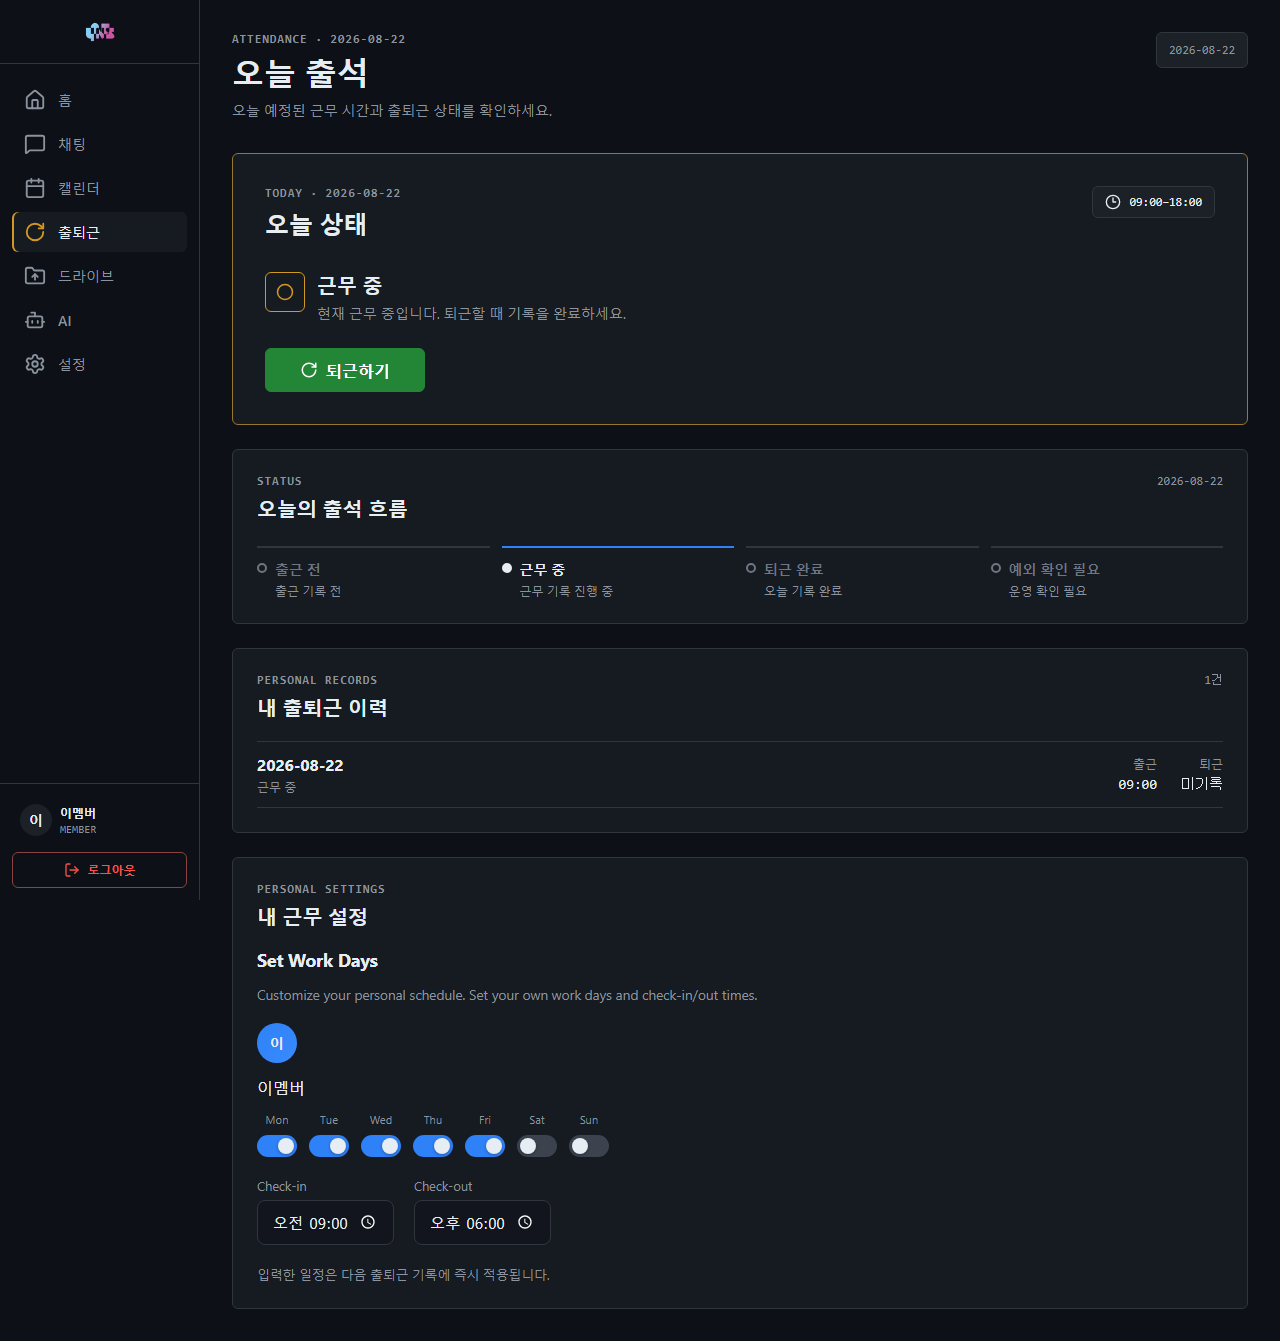
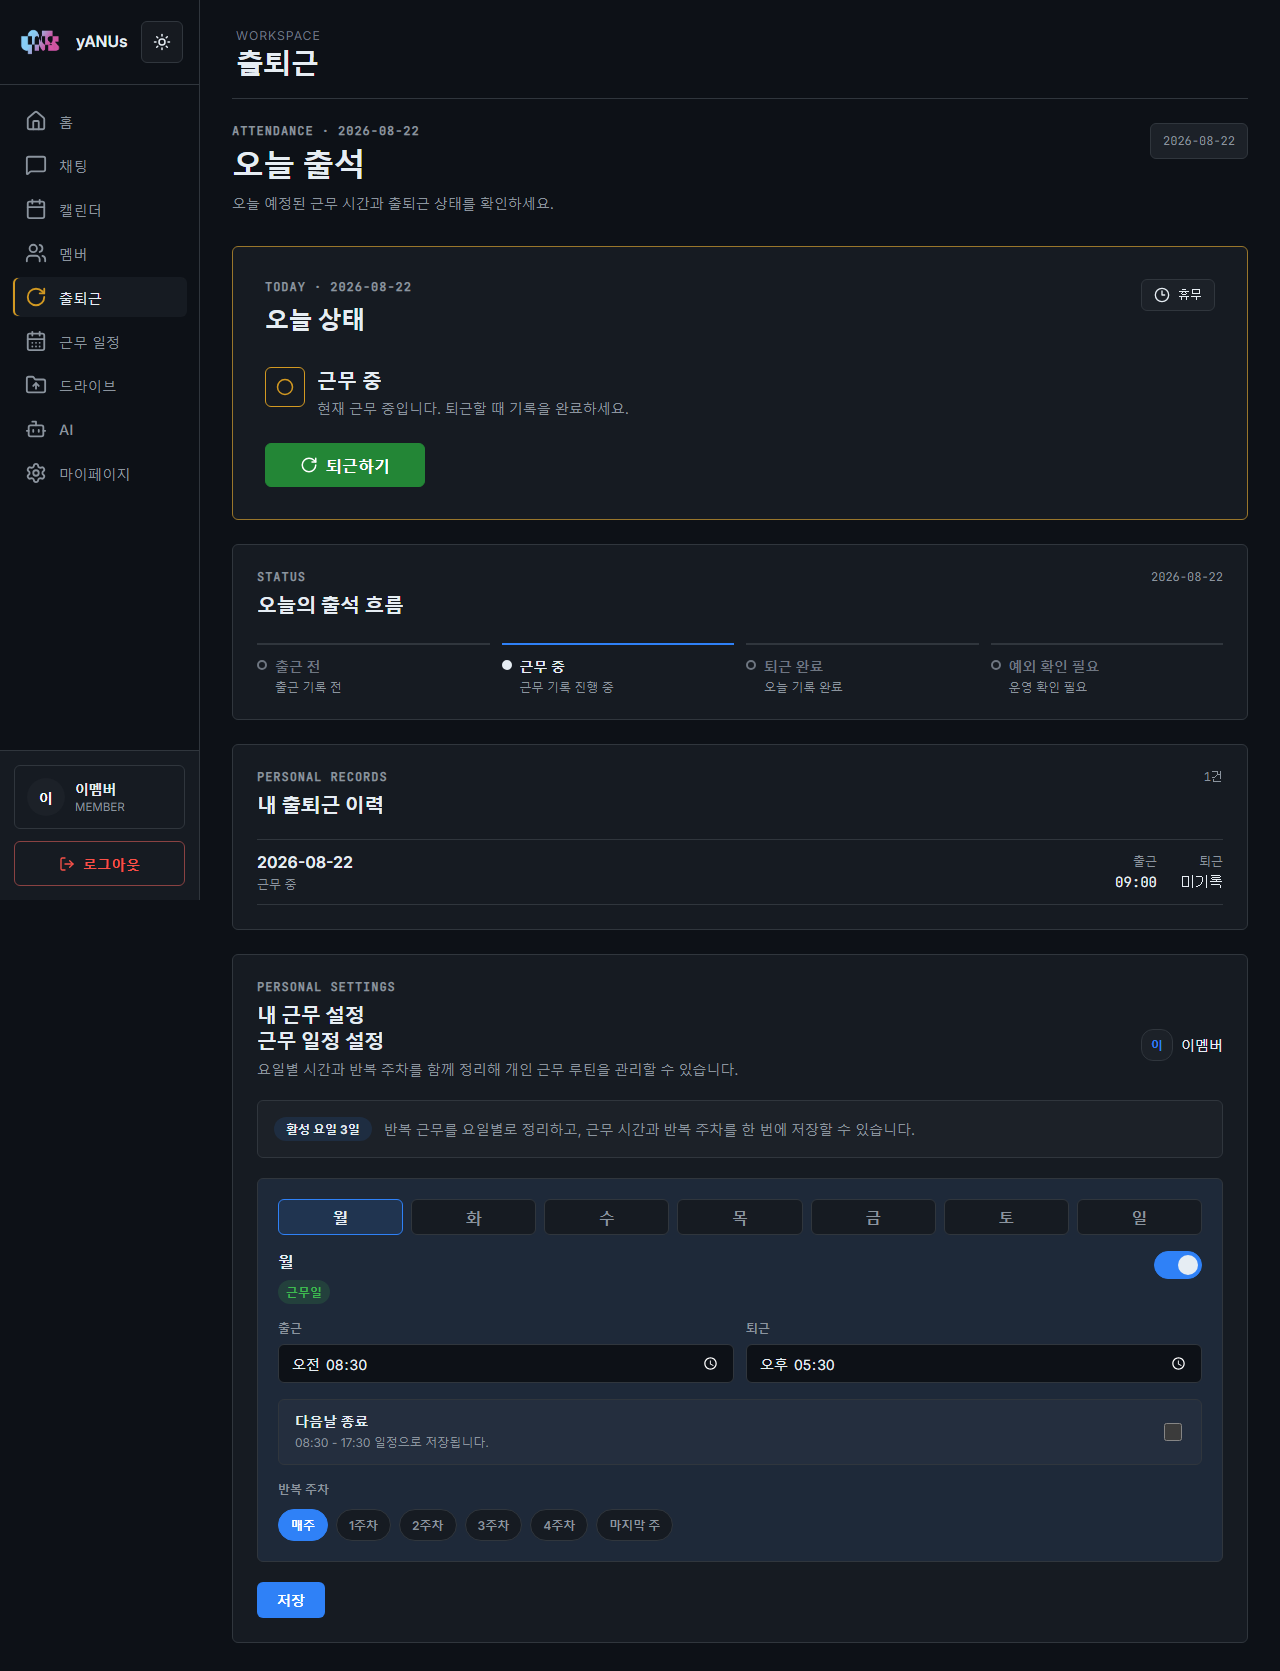
[Docs] #410 - 최종 Before After 증거 갱신

diff --git a/DESIGN.md b/DESIGN.md
@@ -99,10 +99,10 @@ Status is always represented by text, layout, and an icon or border treatment. C
 - Desktop target: `1280px` wide content with a fixed `200px` shell and `32px` page padding.
 - Narrow target: at `768px` and below, navigation becomes a fixed bottom bar and content receives bottom clearance. At `700px`/`480px`, operator rows and member timeline collapse without horizontal scrolling.
 - Touch targets are at least `36px`; the member clock CTA is at least `44px` high.
-- Dark mode uses the Octo Code layers in this document. A light-mode token set is provided through `prefers-color-scheme: light`; content structure and status wording remain unchanged.
+- Dark mode uses the Octo Code layers in this document. Light mode is opt-in through the existing explicit `data-theme="light"` preference; the operating-system color scheme does not override the dark default.
 - Every action is keyboard reachable, focus-visible, labelled, and has a text equivalent. Status timeline uses `aria-current`, record rows expose a member-specific accessible name, and the detail panel uses a labelled `aside`.
 - Loading, API error, retry, empty, and filtered-empty states occupy the same record region. Authentication and permission routing remain owned by the existing route guards.
-- Offline behavior is limited to visible failure and retry in this issue; no new cache or backend contract is introduced.
+- Offline behavior is limited to visible failure and retry in this issue. Attendance schedule/session cache entries are scoped by authenticated user and cleared on logout; the server remains the source of truth.
 
 ### Implementation boundary and next stages
 
@@ -112,7 +112,7 @@ Status is always represented by text, layout, and an icon or border treatment. C
 4. Extension slot: #377 adds settlement/report columns and CSV mapping to the operator record model.
 5. Extension slot: #378 adds audit history to the detail panel.
 
-Backend API contracts are not changed by this design pass. Existing attendance endpoints remain the data source.
+Existing attendance endpoints remain the data source. Operator reads may send date/team filters, and the server must enforce the authenticated role and team claims; the mock handlers mirror those authorization boundaries for local verification.
 
 ## Before / After evidence — #410
 
@@ -137,27 +137,30 @@ Before interaction findings:
 
 ### After
 
-After captures were generated on `2026-08-22` before the develop sync at implementation commit `802abc0`; the equivalent rebased commit is `a8cd407`. The captures use the same route, role, viewport, mock mode, and default scroll position as the Before set. A second browser pass checked bottom clearance at the maximum scroll position.
+After captures were regenerated on `2026-08-22` at implementation commit `cbcf7bd9bc306e23b73b841dd83fcb00fdbbe0cd`. The captures use the same route, role, viewport, mock mode, and default scroll position as the Before set. Full-page image heights record the rendered scroll height; a second browser pass checked bottom clearance at the maximum scroll position.
 
 | Capture | Role | Viewport | Objective evidence | File |
 | --- | --- | --- | --- | --- |
 | Admin desktop | ADMIN | `1280×900` | `scrollWidth=1280`; 3 current records rendered, with 2 `근무 중` records ordered before the completed record. | `.qa/issue-410/after/admin-1280.png` |
-| Admin narrow | ADMIN | `768×1024` | `scrollWidth=768`, `scrollHeight=1088`; summary and record/detail regions remain in one readable column. | `.qa/issue-410/after/admin-768.png` |
-| Admin mobile | ADMIN | `390×844` | `scrollWidth=390`, `scrollHeight=1203`; no horizontal overflow, 2×2 summary grid, compact record rows, and 50px clearance above the fixed navigation at max scroll. | `.qa/issue-410/after/admin-390.png` |
-| Member mobile | MEMBER | `390×844` | `scrollWidth=390`, `scrollHeight=1757`; today status, one `퇴근하기` CTA, timeline, records, and schedule settings stack without horizontal overflow; 32px clearance above the fixed navigation at max scroll. | `.qa/issue-410/after/member-390.png` |
-| Member desktop | MEMBER | `1280×900` | `scrollWidth=1280`; today status and `09:00–18:00` schedule are first, followed by the text timeline, personal record, and settings sections. | `.qa/issue-410/after/member-1280.png` |
+| Admin narrow | ADMIN | `768×1024` | `scrollWidth=768`, full-page `scrollHeight=1027`; summary and record/detail regions remain in one readable column, with 44px clearance above fixed navigation at max scroll. | `.qa/issue-410/after/admin-768.png` |
+| Admin mobile | ADMIN | `390×844` | `scrollWidth=390`, full-page `scrollHeight=1306`; no horizontal overflow, 2×2 summary grid, compact record rows, and 44px clearance above fixed navigation at max scroll. | `.qa/issue-410/after/admin-390.png` |
+| Team lead mobile | TEAM_LEAD | `390×844` | `scrollWidth=390`, full-page `scrollHeight=1170`; only the team lead's `박팀장` record is rendered, with 52px clearance above fixed navigation at max scroll. | `.qa/issue-410/after/team-lead-390.png` |
+| Member mobile | MEMBER | `390×844` | `scrollWidth=390`, full-page `scrollHeight=2233`; today status, one `퇴근하기` CTA, timeline, records, and schedule settings stack without horizontal overflow, with 52px clearance above fixed navigation at max scroll. | `.qa/issue-410/after/member-390.png` |
+| Member desktop | MEMBER | `1280×900` | `scrollWidth=1280`, full-page `scrollHeight=1671`; today status and `08:30–17:30` schedule are first, followed by the text timeline, personal record, and settings sections. | `.qa/issue-410/after/member-1280.png` |
 
 After interaction evidence:
 
 - Admin search for `박` reduced the record list to `박팀장`; clearing the search restored all 3 records.
 - Selecting `김리더 기록 상세 보기` opened a labelled detail panel with date, status, scheduled time, `09:02`, and `18:15`.
 - Member `퇴근하기` changed the status copy to `퇴근 완료` and disabled the CTA after the mock API response.
-- At maximum mobile scroll, the admin record list and member schedule section ended above the fixed navigation (`50px` and `32px` respectively).
+- Team lead login rendered only the own-team `박팀장` record; admin retained the full three-record view.
+- At maximum narrow/mobile scroll, the admin record region and member schedule section ended above the fixed navigation (`44px` and `52px` respectively).
 
 After verification checklist:
 
-- [x] Same-role, same-viewport screenshots exist for every Before row.
+- [x] Same-role, same-viewport screenshots exist for every Before row, plus a team-lead scope capture.
 - [x] `scrollWidth` is no greater than the viewport width at `390px`, `768px`, and `1280px`.
 - [x] Admin records show current mock data, priority ordering, search filtering, and a selectable detail panel.
 - [x] Member view shows one CTA, schedule chip, text timeline, personal records, and retry state.
 - [x] Keyboard focus, text status, contrast, touch target size, and mobile bottom clearance are checked in the browser.
+- [x] Fresh PNG signatures and dimensions were checked for all six After captures at the implementation SHA.
